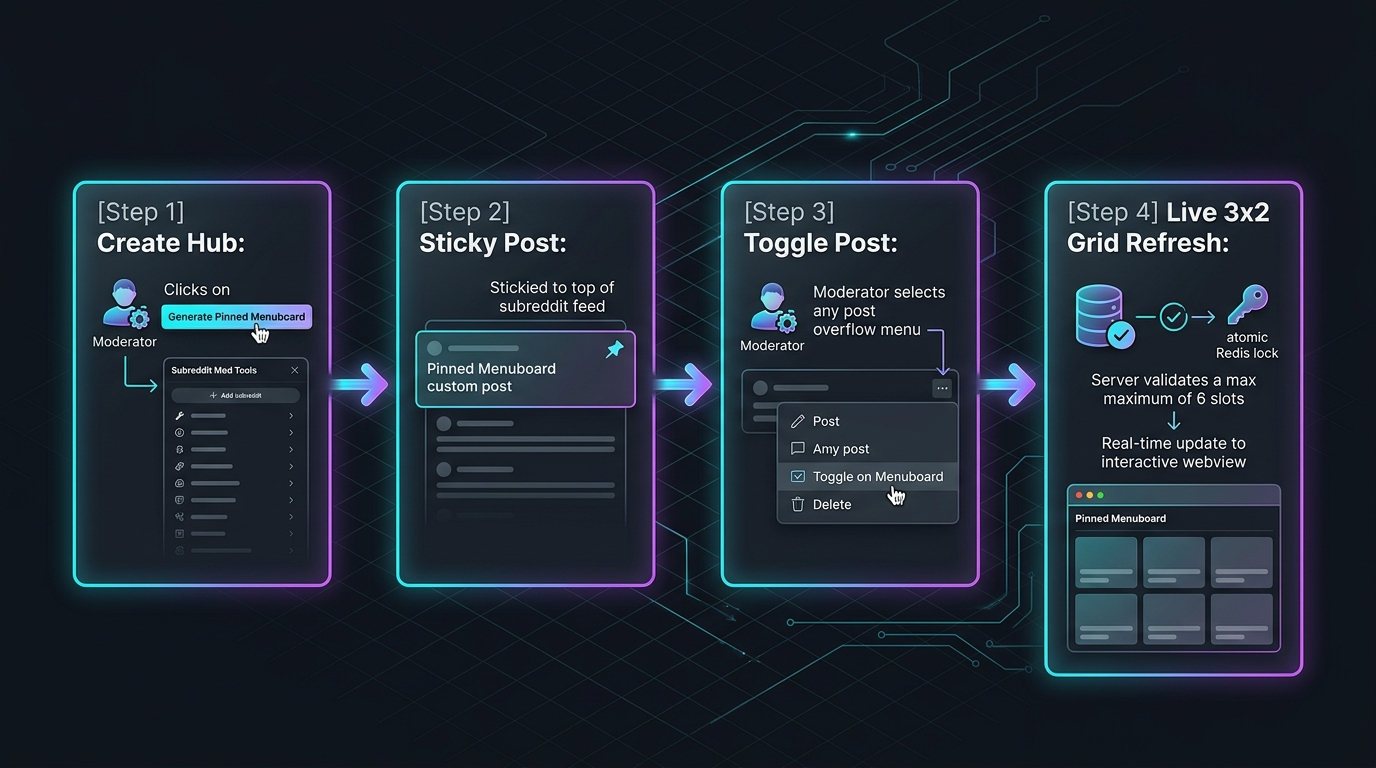
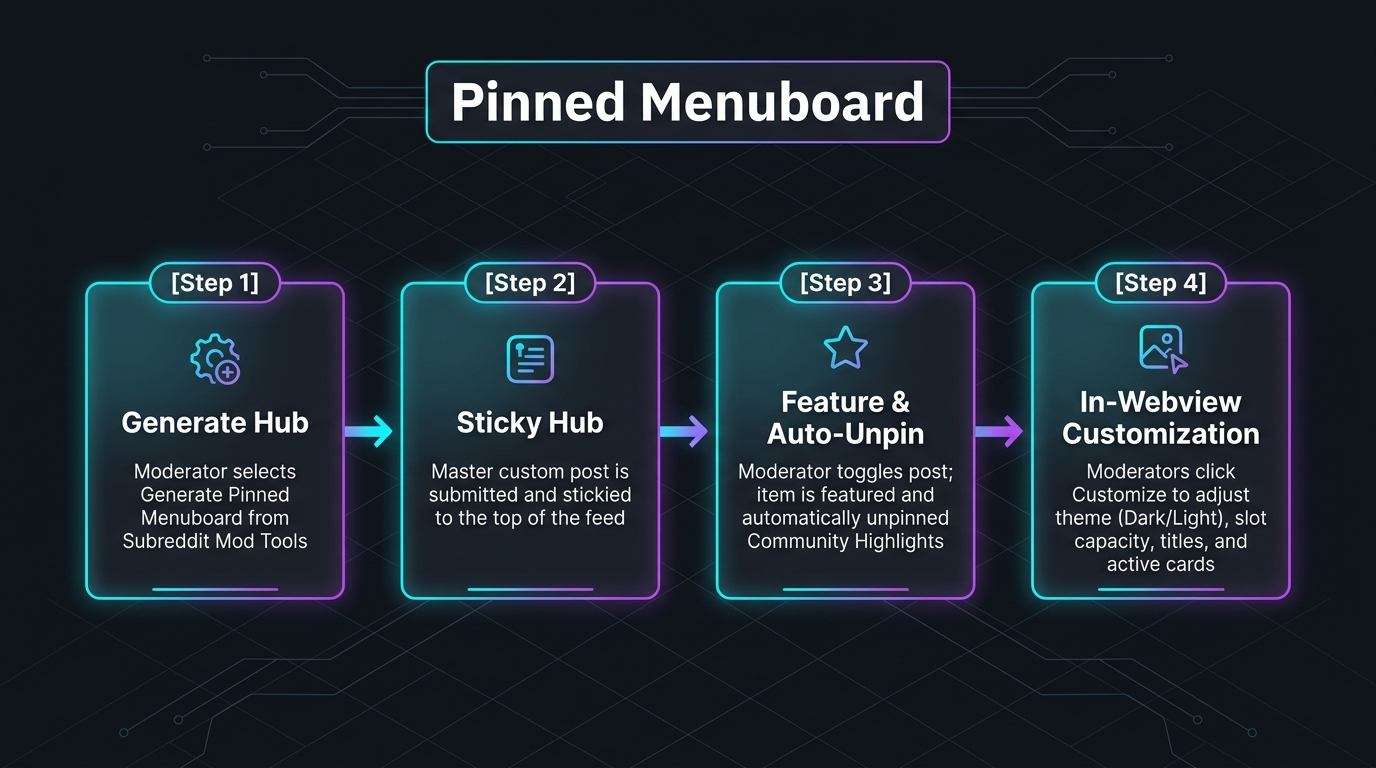
chore: update assets for pinned-menuboard v0.0.64

Changed region(s): [[0.0312, 0.0625, 0.9688, 0.9062], [0.5, 0.8125, 0.5312, 0.8438]]

diff --git a/pinned-menuboard/readme.html b/pinned-menuboard/readme.html
@@ -5,56 +5,56 @@
 <p><a href="https://img.shields.io/badge/Security-Hardened-red?style=for-the-badge">Security</a></p>
 <p><a href="https://img.shields.io/badge/Category-Subreddit_Utility-blueviolet?style=for-the-badge">Category</a></p>
 <p><a href="https://img.shields.io/badge/Type-Community_Styling-8A2BE2?style=for-the-badge">Type</a></p>
-<blockquote><p><strong>Overcome Reddit's 2-pin limit with an interactive, visual 6-slot community showcase.</strong></p></blockquote>
-<p>Pinned Menuboard gives your subreddit a stylish navigation hub and game launcher. By creating a persistent 3x2 grid of featured threads, announcements, or mini-games, moderators can spotlight up to six posts simultaneously with single-tap post menu toggles.</p>
+<blockquote><p><strong>Overcome Reddit's 2-pin limit with an interactive, visual showcase featuring high-resolution previews, customizable themes, and in-webview moderator controls.</strong></p></blockquote>
+<p>Pinned Menuboard gives your subreddit a stylish navigation hub and game launcher. By creating a persistent showcase of featured threads, announcements, or community resources, moderators can spotlight up to twelve posts simultaneously with single-tap post menu toggles or direct in-webview management.</p>
 <p>---</p>
 <h2>At a Glance</h2>
 <ul>
-<li><strong>Bypass the 2-pin limit</strong>: Feature up to six important community posts, wikis, or games at once.</li>
-<li><strong>Visual 3x2 card grid</strong>: Showcase titles, authors, and high-resolution thumbnail preview cards.</li>
-<li><strong>One-tap menu toggling</strong>: Add or remove featured posts directly from Reddit post overflow menus.</li>
-<li><strong>Dynamic board refresh</strong>: The pinned hub updates automatically whenever featured items change.</li>
-<li><strong>Customizable branding</strong>: Personalize header titles, community badges, and card styles.</li>
+<li><strong>Bypass the 2-pin limit</strong>: Feature from two to twelve community threads, wikis, or games simultaneously in a clean card grid.</li>
+<li><strong>Rich thumbnail previews</strong>: Automatically extracts high-resolution artwork from Reddit posts, rich previews, and gallery items.</li>
+<li><strong>Dark and Light themes</strong>: Toggle between Dark Mode (light on dark) and Light Mode (dark on light) with a single click.</li>
+<li><strong>Community Highlights auto-unpin</strong>: Automatically unpins posts from Reddit's native Community Highlights when featured, eliminating duplicate feed cards.</li>
+<li><strong>In-webview moderator controls</strong>: Customize board headers, adjust capacity, and reorder or remove cards directly inside the post.</li>
+<li><strong>One-tap menu toggling</strong>: Feature or remove posts instantly from the native Reddit post overflow menu.</li>
 </ul>
 <p>---</p>
 <h2>The Old Way vs. The Pinned Menuboard Way</h2>
 <p>---</p>
 <h2>Built for Rich Community Navigation</h2>
 <ul>
-<li><strong>Interactive 3x2 Showcase Grid</strong>: Displays up to six active cards featuring thumbnails, submission titles, and author attribution.</li>
-<li><strong>Post-Level Menu Actions</strong>: Toggle any post onto the menuboard instantly by selecting <strong>Toggle on Menuboard</strong> in the post mod menu.</li>
-<li><strong>Automatic Thumbnail Resolution</strong>: Pulls thumbnail images and media previews directly from Reddit submission payloads.</li>
-<li><strong>Zero-Friction Board Generation</strong>: Spawn your master menuboard post with one click via <strong>Generate Pinned Menuboard</strong> in Mod Tools.</li>
-<li><strong>Slot Capacity Management</strong>: Automatically validates available card slots and notifies moderators when the board is full.</li>
-<li><strong>Custom Theming & Text</strong>: Adjust display titles and community greeting copy easily in App Settings.</li>
+<li><strong>Dynamic Showcase Grid</strong>: Displays 2 to 12 responsive cards featuring high-impact image previews, submission titles, and author attribution.</li>
+<li><strong>Multi-Tier Thumbnail Resolution</strong>: Resolves high-resolution thumbnails via Devvit enriched image APIs, standard post thumbnails, direct image links, and preview payloads.</li>
+<li><strong>Dedicated Moderator Controls</strong>: Subreddit moderators receive an in-post Customize button granting access to live configuration without leaving the thread.</li>
+<li><strong>Theme Selection</strong>: Switch between Dark Mode (light on dark slate `#0b1426`) and Light Mode (dark on clean light `#f8fafc`).</li>
+<li><strong>Capacity Controls</strong>: Configure slot limits (2, 4, 6, 8, 10, or 12 cards) with automatic capacity validation.</li>
+<li><strong>Community Highlights Integration</strong>: Automatically unpins stickied posts when featured so they do not duplicate inside Reddit's native top highlights bar.</li>
 </ul>
 <p>---</p>
 <h2>How It Works</h2>
 <p><a href="https://raw.githubusercontent.com/grantdb/reddit-app-legal/main/assets/flowcharts/pinned-menuboard-flowchart.png">Logic Flowchart</a></p>
 <h3>Your Four-Step Workflow</h3>
-<p>1. <strong>Create</strong>: A moderator clicks <strong>Generate Pinned Menuboard</strong> from Subreddit Mod Tools to create the master hub.</p>
-<p>2. <strong>Pin</strong>: Sticky the generated Menuboard post to the top of your subreddit.</p>
-<p>3. <strong>Toggle</strong>: When you find a quality post or interactive game to feature, click <strong>Toggle on Menuboard</strong> on that post.</p>
-<p>4. <strong>Refresh</strong>: The master Menuboard post updates its interactive grid immediately for all community visitors.</p>
+<p>1. <strong>Generate</strong>: A moderator clicks <strong>Generate Pinned Menuboard</strong> from Subreddit Mod Tools to create the master custom post.</p>
+<p>2. <strong>Sticky</strong>: The custom post is stickied to the top of your subreddit feed.</p>
+<p>3. <strong>Feature & Unpin</strong>: Open any post and click <strong>Toggle on Menuboard</strong> (or paste the post URL into the Customize panel). The post is added to the board and automatically unpinned from Community Highlights.</p>
+<p>4. <strong>Customize</strong>: Click <strong>Customize</strong> in the board header to adjust themes, change the board title, adjust slot capacity, or reorder active cards.</p>
 <p>---</p>
 <h2>Quick Setup</h2>
 <p>1. <strong>Install</strong>: Add <strong>Pinned Menuboard</strong> to your subreddit through the Reddit App Directory.</p>
-<p>2. <strong>Generate Board</strong>: Select <strong>Generate Pinned Menuboard</strong> from Subreddit Mod Tools and sticky the resulting post.</p>
-<p>3. <strong>Feature Content</strong>: Open any post and select <strong>Toggle on Menuboard</strong> to add it to an open slot.</p>
-<p>4. <strong>Customize</strong>: Adjust board headers and styling preferences in App Settings anytime.</p>
-<p>*No markdown link tables to update manually. Visual community navigation directly inside your feed.*</p>
+<p>2. <strong>Generate Board</strong>: Select <strong>Generate Pinned Menuboard</strong> from Subreddit Mod Tools.</p>
+<p>3. <strong>Feature Threads</strong>: Open any post menu (`...`) and click <strong>Toggle on Menuboard</strong>, or use the in-webview <strong>Customize</strong> panel.</p>
+<p>4. <strong>Tune Settings</strong>: Click <strong>Customize</strong> in the top-right corner of the board to set your preferred theme, title, and slot count.</p>
 <p>---</p>
 <h2>Advanced Capabilities</h2>
-<p>Pinned Menuboard is engineered for dynamic Custom Post rendering and fast slot index updates.</p>
+<p>Pinned Menuboard is engineered with Devvit Webview architecture for real-time reactivity and lightweight Redis storage.</p>
 <ul>
-<li><strong>Interactive Webview Grid</strong>: Built with responsive HTML5/CSS grid layouts optimized for mobile and desktop screens.</li>
-<li><strong>Media Asset Resolver</strong>: Automatically fetches and optimizes preview assets via Reddit's native media proxy.</li>
-<li><strong>Redis Slot Indexing</strong>: Stores active card IDs and metadata in Redis hashes with atomic occupancy controls.</li>
-<li><strong>Menu Action Handlers</strong>: Registers dedicated endpoint handlers (`/internal/menu/post-toggle`) for rapid mod toggles.</li>
+<li><strong>Atomic Redis Concurrency</strong>: Updates use distributed Redis locking to ensure thread-safe capacity and reordering operations.</li>
+<li><strong>Automated Thumbnail Backfill</strong>: Automatically inspects existing featured items and enriches them with high-resolution artwork upon initialization.</li>
+<li><strong>Moderator-Gated Endpoints</strong>: Dedicated API endpoints (`/api/settings`, `/api/manage-post`) enforce strict moderator permission checks before modifying community configuration.</li>
+<li><strong>Zero-Poll Webview</strong>: Fast client initialization with instant optimistic updates and DOM synchronization.</li>
 </ul>
 <p>---</p>
 <h2>Designed to Assist Moderators</h2>
-<p>Pinned Menuboard provides visual post curation and navigation tools to enhance community engagement. Featured posts are selected and managed exclusively by your moderation team—human moderators maintain full control over which posts are showcased or removed.</p>
+<p>Pinned Menuboard provides visual post curation and navigation tools to enhance community engagement. Featured posts are selected and managed exclusively by your moderation team—human moderators maintain full authority over all showcased content.</p>
 <p>---</p>
 <h2>Support</h2>
 <p>For help, bug reports, or feature requests, post in r/grantdb.</p>
@@ -63,8 +63,7 @@
 <li>The app name.</li>
 <li>What you expected to happen.</li>
 <li>What happened instead.</li>
-<li>Any error message.</li>
-<li>Screenshots or relevant details.</li>
+<li>Any error message or screenshots.</li>
 </ul>
 <h2>Legal</h2>
 <p>This application is subject to the following legal agreements:</p>

diff --git a/pinned-menuboard/wiki.html b/pinned-menuboard/wiki.html
@@ -1,7 +1,7 @@
 <h1>Pinned Menuboard</h1>
 
 <p>Category: Moderation<br>
-Version: v0.0.63<br>
+Version: v0.0.64<br>
 Visibility: Public<br>
 Summary: A centralized menu board for pinned posts</p>
 
@@ -26,7 +26,7 @@ Summary: A centralized menu board for pinned posts</p>
 <li>Submits Automated Comments: No — Does not submit automated comments.</li>
 <li>Attaches Removal Notes: No — Does not attach removal notes.</li>
 <li>Approves Content: No — Does not approve content.</li>
-<li>Removes or Filters Content: No — Does not remove or filter content.</li>
+<li>Removes or Filters Content: Yes — Removes or filters non-compliant submissions.</li>
 <li>Dispatches Modmail Alerts: No — Does not send modmail notifications.</li>
 <li>Updates User or Post Flair: No — Does not update flair.</li>
 </ul>
@@ -41,10 +41,9 @@ Summary: A centralized menu board for pinned posts</p>
 <h2>Setup and Usage</h2>
 <ul>
 <li>Install: Add Pinned Menuboard to your subreddit through the Reddit App Directory.</li>
-<li>Generate Board: Select Generate Pinned Menuboard from Subreddit Mod Tools and sticky the resulting post.</li>
-<li>Feature Content: Open any post and select Toggle on Menuboard to add it to an open slot.</li>
-<li>Customize: Adjust board headers and styling preferences in App Settings anytime.</li>
-<li>No markdown link tables to update manually. Visual community navigation directly inside your feed.*</li>
+<li>Generate Board: Select Generate Pinned Menuboard from Subreddit Mod Tools.</li>
+<li>Feature Threads: Open any post menu (`...`) and click Toggle on Menuboard, or use the in-webview Customize panel.</li>
+<li>Tune Settings: Click Customize in the top-right corner of the board to set your preferred theme, title, and slot count.</li>
 </ul>
 
 <h2>Troubleshooting</h2>
@@ -54,11 +53,11 @@ Summary: A centralized menu board for pinned posts</p>
 </ul>
 
 <h2>Version History</h2>
+<p>0.0.64 — 2026-09-09<br>
+Standard fleet synchronization and maintenance.</p>
 <p>0.0.63 — 2026-09-02<br>
 Standard fleet synchronization and maintenance.</p>
 <p>0.0.62 — 2026-08-31<br>
-Standard fleet synchronization and maintenance.</p>
-<p>0.0.61 — 2026-08-15<br>
 Standard fleet synchronization and maintenance.</p>
 
 <h2>Links</h2>

diff --git a/pinned-menuboard/README.md b/pinned-menuboard/README.md
@@ -8,19 +8,20 @@
 ![Category](https://img.shields.io/badge/Category-Subreddit_Utility-blueviolet?style=for-the-badge)
 ![Type](https://img.shields.io/badge/Type-Community_Styling-8A2BE2?style=for-the-badge)
 
-> **Overcome Reddit's 2-pin limit with an interactive, visual 6-slot community showcase.**
+> **Overcome Reddit's 2-pin limit with an interactive, visual showcase featuring high-resolution previews, customizable themes, and in-webview moderator controls.**
 
-Pinned Menuboard gives your subreddit a stylish navigation hub and game launcher. By creating a persistent 3x2 grid of featured threads, announcements, or mini-games, moderators can spotlight up to six posts simultaneously with single-tap post menu toggles.
+Pinned Menuboard gives your subreddit a stylish navigation hub and game launcher. By creating a persistent showcase of featured threads, announcements, or community resources, moderators can spotlight up to twelve posts simultaneously with single-tap post menu toggles or direct in-webview management.
 
 ---
 
 ## At a Glance
 
-- **Bypass the 2-pin limit**: Feature up to six important community posts, wikis, or games at once.
-- **Visual 3x2 card grid**: Showcase titles, authors, and high-resolution thumbnail preview cards.
-- **One-tap menu toggling**: Add or remove featured posts directly from Reddit post overflow menus.
-- **Dynamic board refresh**: The pinned hub updates automatically whenever featured items change.
-- **Customizable branding**: Personalize header titles, community badges, and card styles.
+- **Bypass the 2-pin limit**: Feature from two to twelve community threads, wikis, or games simultaneously in a clean card grid.
+- **Rich thumbnail previews**: Automatically extracts high-resolution artwork from Reddit posts, rich previews, and gallery items.
+- **Dark and Light themes**: Toggle between Dark Mode (light on dark) and Light Mode (dark on light) with a single click.
+- **Community Highlights auto-unpin**: Automatically unpins posts from Reddit's native Community Highlights when featured, eliminating duplicate feed cards.
+- **In-webview moderator controls**: Customize board headers, adjust capacity, and reorder or remove cards directly inside the post.
+- **One-tap menu toggling**: Feature or remove posts instantly from the native Reddit post overflow menu.
 
 ---
 
@@ -28,22 +29,22 @@ Pinned Menuboard gives your subreddit a stylish navigation hub and game launcher
 
 | Traditional Workflow | With Pinned Menuboard |
 | :--- | :--- |
-| Constantly swapping and sacrificing one of your two pinned posts | **Permanent 6-slot interactive hub** featuring multiple events at once |
-| Text-only link megathreads that nobody clicks | **Visual interactive card gallery** with rich thumbnails and direct links |
-| Manually editing post markdown whenever a link changes | **One-tap post menu toggle** adding or removing items instantly |
-| Forgetting to remove outdated event pins | **Centralized slot management** showing current featured occupancy |
-| Cluttered sidebar link tables that get ignored on mobile | **Mobile-friendly custom post** rendering cleanly across all devices |
+| Sacrificing one of your two pinned slots whenever a new announcement drops | **Permanent multi-slot showcase** featuring up to 12 threads concurrently |
+| Text-only link megathreads that go unread | **Rich visual gallery** with high-resolution image thumbnails and author credits |
+| Duplicate posts cluttering native Community Highlights | **Automated unpinning** keeping native highlights clean and focused |
+| Manually editing markdown link tables when featured threads change | **In-webview management** with direct URL addition, reordering, and removal |
+| Fixed dark or light styling clashing with community preferences | **Configurable theme modes** with Dark and Light palette choices |
 
 ---
 
 ## Built for Rich Community Navigation
 
-- **Interactive 3x2 Showcase Grid**: Displays up to six active cards featuring thumbnails, submission titles, and author attribution.
-- **Post-Level Menu Actions**: Toggle any post onto the menuboard instantly by selecting **Toggle on Menuboard** in the post mod menu.
-- **Automatic Thumbnail Resolution**: Pulls thumbnail images and media previews directly from Reddit submission payloads.
-- **Zero-Friction Board Generation**: Spawn your master menuboard post with one click via **Generate Pinned Menuboard** in Mod Tools.
-- **Slot Capacity Management**: Automatically validates available card slots and notifies moderators when the board is full.
-- **Custom Theming & Text**: Adjust display titles and community greeting copy easily in App Settings.
+- **Dynamic Showcase Grid**: Displays 2 to 12 responsive cards featuring high-impact image previews, submission titles, and author attribution.
+- **Multi-Tier Thumbnail Resolution**: Resolves high-resolution thumbnails via Devvit enriched image APIs, standard post thumbnails, direct image links, and preview payloads.
+- **Dedicated Moderator Controls**: Subreddit moderators receive an in-post Customize button granting access to live configuration without leaving the thread.
+- **Theme Selection**: Switch between Dark Mode (light on dark slate `#0b1426`) and Light Mode (dark on clean light `#f8fafc`).
+- **Capacity Controls**: Configure slot limits (2, 4, 6, 8, 10, or 12 cards) with automatic capacity validation.
+- **Community Highlights Integration**: Automatically unpins stickied posts when featured so they do not duplicate inside Reddit's native top highlights bar.
 
 ---
 
@@ -53,38 +54,36 @@ Pinned Menuboard gives your subreddit a stylish navigation hub and game launcher
 
 ### Your Four-Step Workflow
 
-1. **Create**: A moderator clicks **Generate Pinned Menuboard** from Subreddit Mod Tools to create the master hub.
-2. **Pin**: Sticky the generated Menuboard post to the top of your subreddit.
-3. **Toggle**: When you find a quality post or interactive game to feature, click **Toggle on Menuboard** on that post.
-4. **Refresh**: The master Menuboard post updates its interactive grid immediately for all community visitors.
+1. **Generate**: A moderator clicks **Generate Pinned Menuboard** from Subreddit Mod Tools to create the master custom post.
+2. **Sticky**: The custom post is stickied to the top of your subreddit feed.
+3. **Feature & Unpin**: Open any post and click **Toggle on Menuboard** (or paste the post URL into the Customize panel). The post is added to the board and automatically unpinned from Community Highlights.
+4. **Customize**: Click **Customize** in the board header to adjust themes, change the board title, adjust slot capacity, or reorder active cards.
 
 ---
 
 ## Quick Setup
 
 1. **Install**: Add **Pinned Menuboard** to your subreddit through the Reddit App Directory.
-2. **Generate Board**: Select **Generate Pinned Menuboard** from Subreddit Mod Tools and sticky the resulting post.
-3. **Feature Content**: Open any post and select **Toggle on Menuboard** to add it to an open slot.
-4. **Customize**: Adjust board headers and styling preferences in App Settings anytime.
-
-*No markdown link tables to update manually. Visual community navigation directly inside your feed.*
+2. **Generate Board**: Select **Generate Pinned Menuboard** from Subreddit Mod Tools.
+3. **Feature Threads**: Open any post menu (`...`) and click **Toggle on Menuboard**, or use the in-webview **Customize** panel.
+4. **Tune Settings**: Click **Customize** in the top-right corner of the board to set your preferred theme, title, and slot count.
 
 ---
 
 ## Advanced Capabilities
 
-Pinned Menuboard is engineered for dynamic Custom Post rendering and fast slot index updates.
+Pinned Menuboard is engineered with Devvit Webview architecture for real-time reactivity and lightweight Redis storage.
 
-- **Interactive Webview Grid**: Built with responsive HTML5/CSS grid layouts optimized for mobile and desktop screens.
-- **Media Asset Resolver**: Automatically fetches and optimizes preview assets via Reddit's native media proxy.
-- **Redis Slot Indexing**: Stores active card IDs and metadata in Redis hashes with atomic occupancy controls.
-- **Menu Action Handlers**: Registers dedicated endpoint handlers (`/internal/menu/post-toggle`) for rapid mod toggles.
+- **Atomic Redis Concurrency**: Updates use distributed Redis locking to ensure thread-safe capacity and reordering operations.
+- **Automated Thumbnail Backfill**: Automatically inspects existing featured items and enriches them with high-resolution artwork upon initialization.
+- **Moderator-Gated Endpoints**: Dedicated API endpoints (`/api/settings`, `/api/manage-post`) enforce strict moderator permission checks before modifying community configuration.
+- **Zero-Poll Webview**: Fast client initialization with instant optimistic updates and DOM synchronization.
 
 ---
 
 ## Designed to Assist Moderators
 
-Pinned Menuboard provides visual post curation and navigation tools to enhance community engagement. Featured posts are selected and managed exclusively by your moderation team—human moderators maintain full control over which posts are showcased or removed.
+Pinned Menuboard provides visual post curation and navigation tools to enhance community engagement. Featured posts are selected and managed exclusively by your moderation team—human moderators maintain full authority over all showcased content.
 
 ---
 
@@ -95,8 +94,7 @@ Please include:
 - The app name.
 - What you expected to happen.
 - What happened instead.
-- Any error message.
-- Screenshots or relevant details.
+- Any error message or screenshots.
 
 ## Legal
 

diff --git a/pinned-menuboard/wiki.md b/pinned-menuboard/wiki.md
@@ -1,7 +1,7 @@
 # Pinned Menuboard
 
 Category: Moderation  
-Version: v0.0.63  
+Version: v0.0.64  
 Visibility: Public  
 Summary: A centralized menu board for pinned posts
 
@@ -34,7 +34,7 @@ Subreddit moderators configure the app in Mod Tools -> App Settings.
 - Submits Automated Comments: No — Does not submit automated comments.
 - Attaches Removal Notes: No — Does not attach removal notes.
 - Approves Content: No — Does not approve content.
-- Removes or Filters Content: No — Does not remove or filter content.
+- Removes or Filters Content: Yes — Removes or filters non-compliant submissions.
 - Dispatches Modmail Alerts: No — Does not send modmail notifications.
 - Updates User or Post Flair: No — Does not update flair.
 
@@ -46,23 +46,22 @@ This app utilizes Reddit Redis storage for state management, caching, and rate l
 
 ## Setup and Usage
 - Install: Add Pinned Menuboard to your subreddit through the Reddit App Directory.
-- Generate Board: Select Generate Pinned Menuboard from Subreddit Mod Tools and sticky the resulting post.
-- Feature Content: Open any post and select Toggle on Menuboard to add it to an open slot.
-- Customize: Adjust board headers and styling preferences in App Settings anytime.
-- No markdown link tables to update manually. Visual community navigation directly inside your feed.*
+- Generate Board: Select Generate Pinned Menuboard from Subreddit Mod Tools.
+- Feature Threads: Open any post menu (`...`) and click Toggle on Menuboard, or use the in-webview Customize panel.
+- Tune Settings: Click Customize in the top-right corner of the board to set your preferred theme, title, and slot count.
 
 ## Troubleshooting
 - Check app console logs via devvit logs <subreddit> for real-time diagnostic output.
 - Ensure all required app settings and API keys are properly configured in Mod Tools.
 
 ## Version History
+0.0.64 — 2026-09-09
+- Standard fleet synchronization and maintenance.
+
 0.0.63 — 2026-09-02
 - Standard fleet synchronization and maintenance.
 
 0.0.62 — 2026-08-31
-- Standard fleet synchronization and maintenance.
-
-0.0.61 — 2026-08-15
 - Standard fleet synchronization and maintenance.
 
 ## Links
